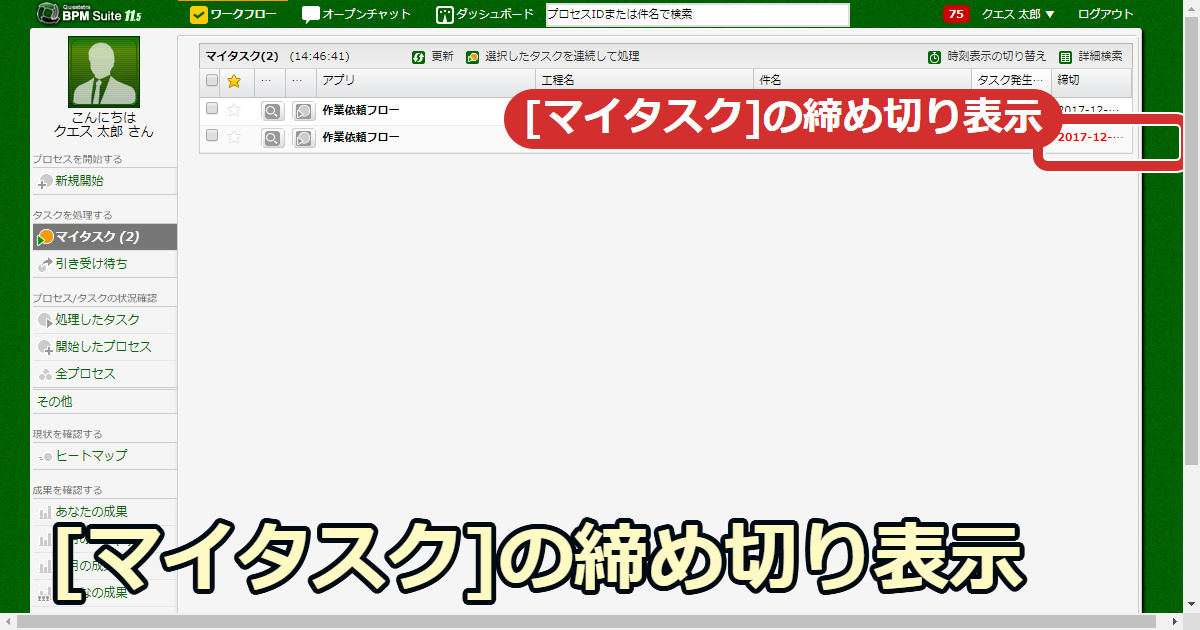
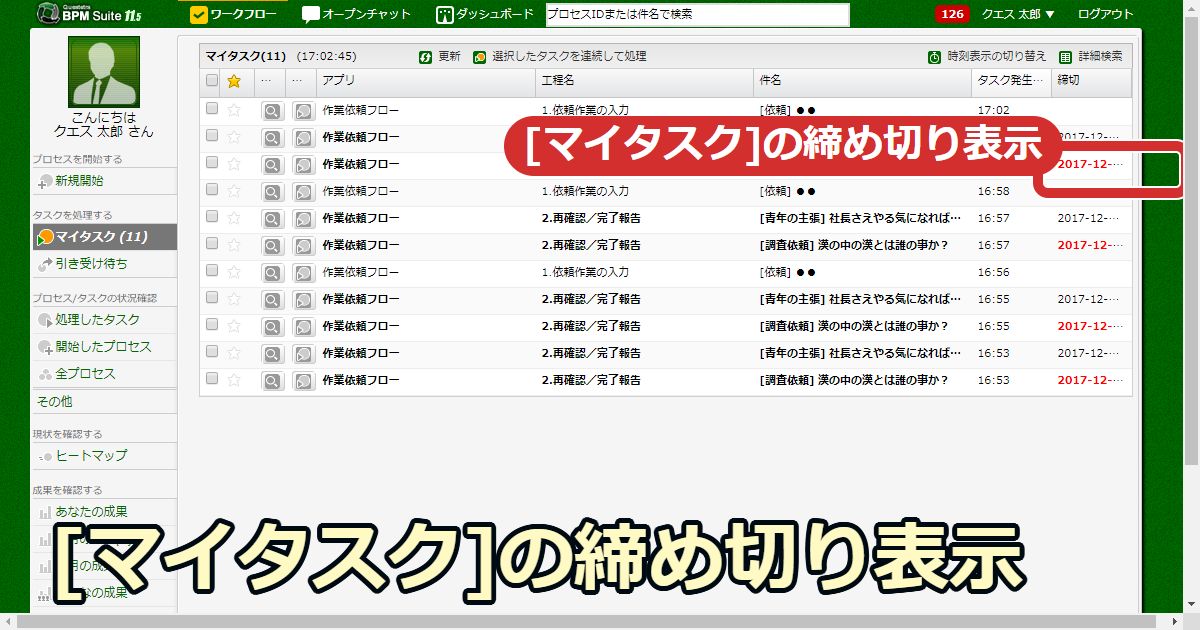
M102

diff --git a/run/capture/Manual.js b/run/capture/Manual.js
@@ -77,7 +77,7 @@ module.exports = function() {
             process.on('uncaughtException', (err) => {
                 const date = new Date().toLocaleString().replace(/\s|\//g, '-').replace(/:/g, '');
                 console.log(`        ScrrenShot: error${date}.png`);
-                client.saveScreenshot(joinOutputPath(`error${date}`));
+                client.saveScreenshot(makePathFlat(`error${date}`, 'error'));
             });
         });
         after(function(done) {
@@ -310,6 +310,57 @@ module.exports = function() {
                     .setValue('input[name=j_password]', config.qusers.admin.password)
                     .click('input[class=login-submit]').pause(2000).then()
                     .call(done);
+            });
+        });
+
+        describe('M101-1', () => {
+            it('is OK', function(done) {
+                this.timeout(20000);
+                client
+                    .url(config.context + '/PE/Workitem/list').pause(5000)
+                    .execute(Annotation.rectangle, ".side-menu a[href='/PE/Workitem/list']", {
+                        text: "マイタスク",
+                        position: cAnoPosition.BOTTOM_RIGHT
+                    }).then()
+                    .execute(Annotation.title, cAnoPosition.BOTTOM_LEFT, "≒ 引き受けた仕事").then()
+                    .saveScreenshot(makePathFlat('M101-1', 'manual'))
+                    .execute(Annotation.clear).then()
+                    .call(done);
+            });
+        });
+
+        describe('M102-1', () => {
+            it('is OK', function(done) {
+                this.timeout(20000);
+                client
+                    .url(config.context + '/PE/ProcessModel/listView').pause(2000)
+                    .execute(Annotation.rectangle, "#processModels", {
+                        text: "開始フローの選択",
+                        position: cAnoPosition.BOTTOM
+                    },cAnoColors[1]).then()
+                    .execute(Annotation.rectangle, ".side-menu a[href='/PE/ProcessModel/listView']", {
+                        text: "新規開始メニュー",
+                        position: cAnoPosition.BOTTOM_RIGHT
+                    }).then()
+                    .saveScreenshot(makePathFlat('M102-1', 'manual'))
+                    .execute(Annotation.clear).then()
+
+                    .click("a[href='/OR/ProcessModel/view?processModelInfoId=4']").pause(2000).then()
+                    .execute(Annotation.title, cAnoPosition.TOP_RIGHT, "業務マニュアル").then()
+                    .saveScreenshot(makePathFlat('M102-2', 'manual'))
+                    .execute(Annotation.clear).then()
+
+                    .url(config.context + '/PE/ProcessModel/listView').pause(2000)
+                    .click("a[href='/PE/ProcessInstance/startAndExecute?processModelInfoId=4&nodeNumber=1']").pause(2000).then()
+                    .execute(Annotation.title, cAnoPosition.TOP_RIGHT, "入力画面").then()
+                    .saveScreenshot(makePathFlat('M102-3', 'manual'))
+                    .execute(Annotation.clear).then()
+
+                    .url(config.context + '/PE/Workitem/list').pause(2000)
+                    .alertAccept()
+
+                    .call(done);
+
             });
         });
 

diff --git a/gulpfile.js b/gulpfile.js
@@ -1,0 +1,31 @@
+// dependencies
+const gulp = require('gulp');
+const selenium = require('selenium-standalone');
+const mocha = require('gulp-mocha');
+const plumber = require('gulp-plumber');
+
+// task (Selenium init & run)
+gulp.task('selenium', (done) => {
+  selenium.install({
+    logger(message) { }
+  }, (err) => {
+    if (err) return done(err);
+
+    selenium.start((err, child) => {
+      if (err) return done(err);
+      selenium.child = child;
+      return done();
+    });
+  });
+});
+
+// task (test src pipe to mocha)
+gulp.task('integration', ['selenium'], () => {
+  return gulp.src('run/*.js', { read: false })
+    .pipe(mocha()).pipe(plumber());
+});
+
+// task (execute test and post process)
+gulp.task('test', ['integration'], () => {
+  selenium.child.kill();
+});
